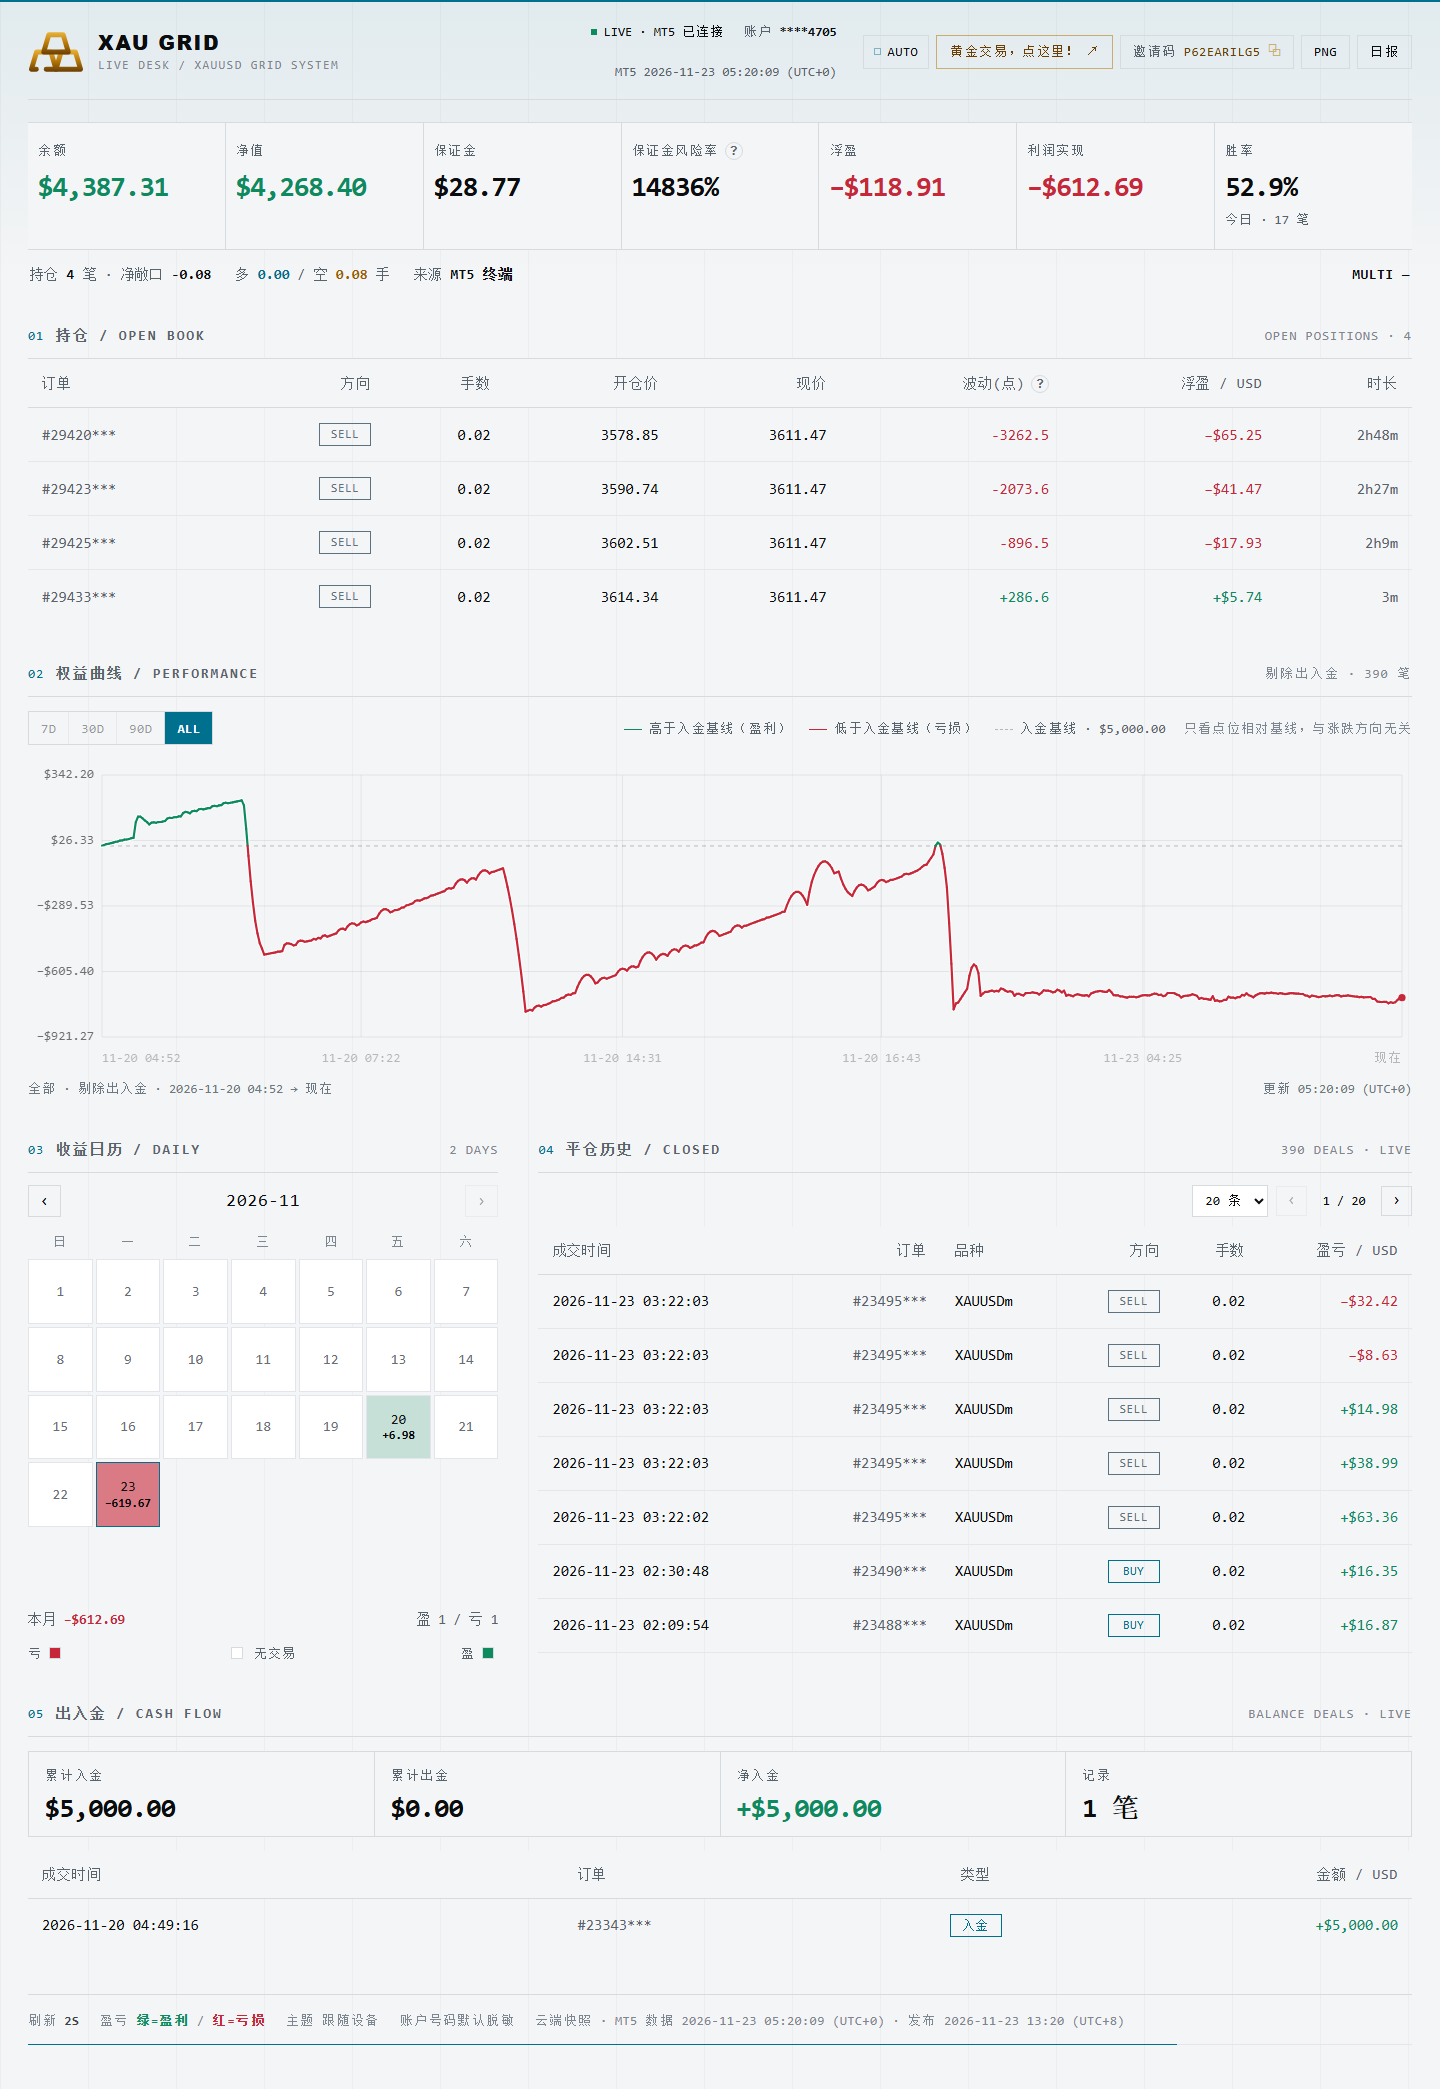
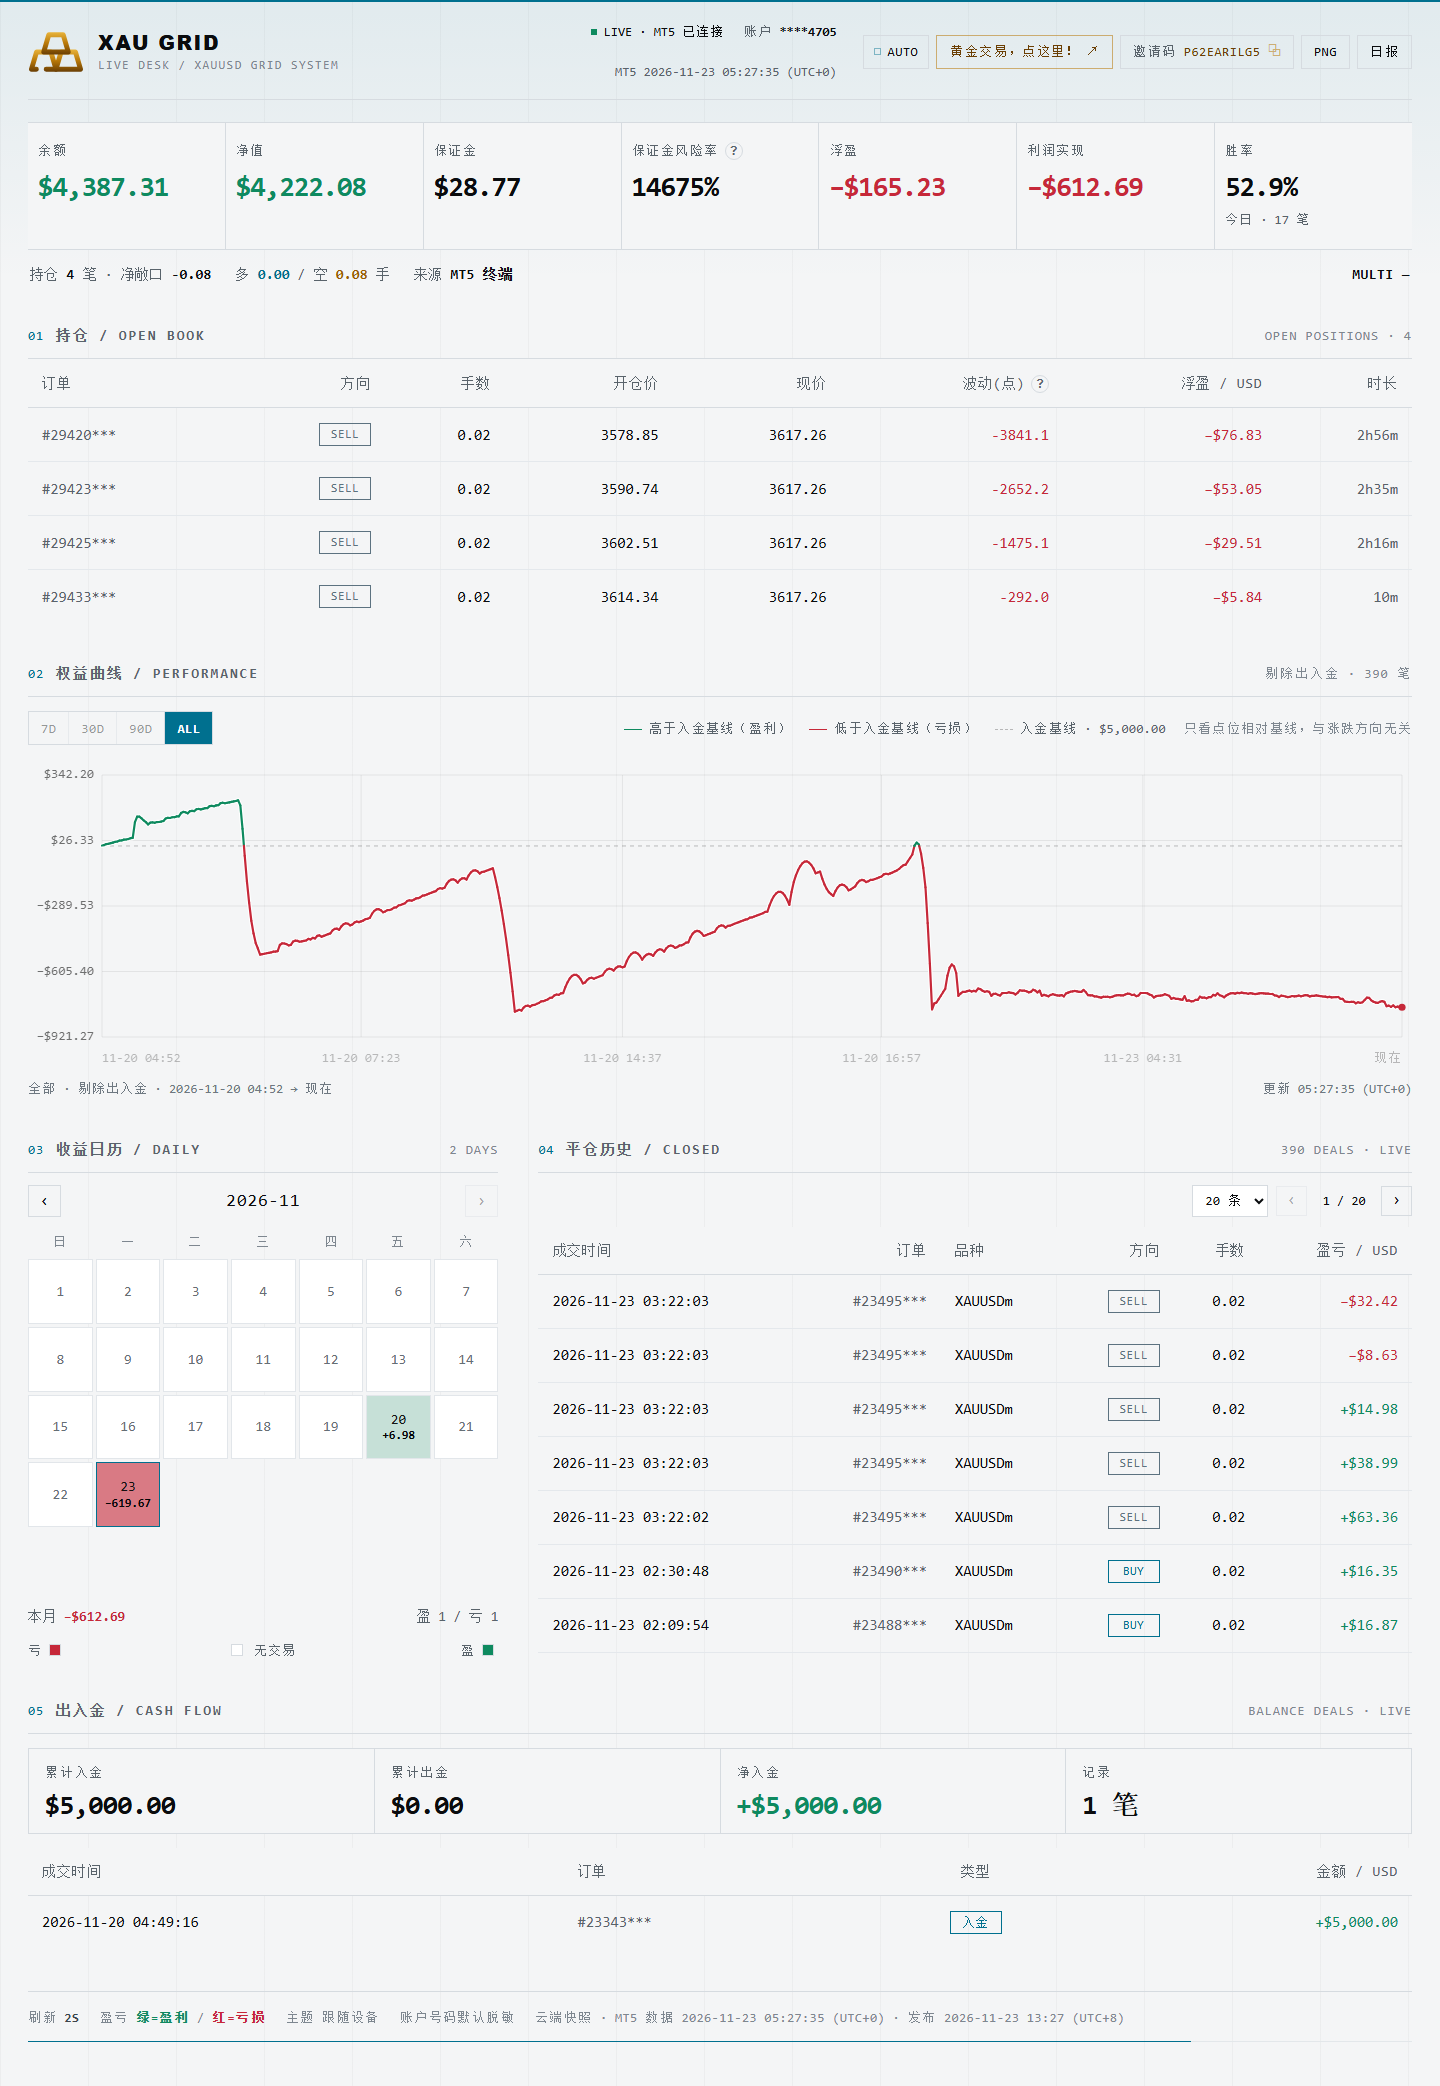
update snapshot 2026-11-23 13:27:41

diff --git a/index.html b/index.html
@@ -17,7 +17,7 @@
 })();
 </script>
 <link rel="stylesheet" href="assets/css/tokens.css?v=d27153c9">
-<link rel="stylesheet" href="assets/css/desk.css?v=c5eab529">
+<link rel="stylesheet" href="assets/css/desk.css?v=1af353bc">
 <link rel="stylesheet" href="assets/css/theme-control.css?v=ec0df777">
 <!-- 静态托管标记：publish.py 会把下一行替换为 window.__XAU_STATIC__ = true; -->
 <script>window.__XAU_STATIC__ = true;  // publish.py: 静态托管强制静态模式</script>
@@ -158,6 +158,8 @@
       </div>
       <div class="row-bar cal-nav"><button id="calPrev" aria-label="上个月">‹</button><span id="calMonth">—</span><button id="calNext" aria-label="下个月">›</button></div>
       <div class="cal-grid" id="calGrid"></div>
+      <!-- 月合计/盈亏天数放在网格外：网格是 7 列固定轨道，塞进去会被挤到两边裁掉 -->
+      <div class="cal-stats" id="calStats"></div>
       <div class="cal-legend">
         <span>亏 <i class="sw" style="background:var(--down)"></i></span>
         <span><i class="sw" style="background:var(--cal-bg)"></i> 无交易</span>
@@ -221,7 +223,7 @@
 <script src="assets/js/core.js?v=ac8131db"></script>
 <script src="assets/js/theme.js?v=ab43a0a9"></script>
 <script src="assets/js/chart.js?v=42c0796a"></script>
-<script src="assets/js/calendar.js?v=32f4e120"></script>
-<script src="assets/js/app.js?v=8e3caa1f"></script>
+<script src="assets/js/calendar.js?v=ac27d2bc"></script>
+<script src="assets/js/app.js?v=678a08de"></script>
 </body>
 </html>

diff --git a/assets/js/app.js b/assets/js/app.js
@@ -36,9 +36,11 @@ function render(d){
       + (d.published_at ? ` · 发布 ${d.published_at.slice(0, 16)} ${localTz}` : '')
       + (ageMin > 15 ? ` · 已延迟 ${ageMin} 分钟` : '');
   }else{
-    $('hint').textContent = live ? '当前显示真实终端数据'
+    // 本地也标出 MT5 数据时间，和云端页脚保持同一套口径
+    const dataTime = `${d.server_time || '—'} ${srvTz}`;
+    $('hint').textContent = live ? `MT5 数据 ${dataTime} · 当前显示真实终端数据`
       : (cached ? `MT5 未连接，显示 ${d.cache_saved_at} ${localTz} 的缓存快照（${d.cache_age_seconds}秒前）`
-                : 'MT5 与缓存均不可用，当前为演示数据');
+                : `演示数据 · MT5 数据 ${dataTime}`);
   }
 
   setText('floating', money(d.summary.floating), cls(d.summary.floating));

diff --git a/assets/js/calendar.js b/assets/js/calendar.js
@@ -70,9 +70,10 @@ function renderCalendar(){
           + ` title="${key}: ${v >= 0 ? '+' : ''}${v.toFixed(2)}"><span class="d">${day}</span>`
           + `${has ? `<span class="v">${label}</span>` : ''}</div>`;
   }
-  html += `<div class="cal-stats"><span>本月 <b style="color:${monthTotal >= 0 ? 'var(--up)' : 'var(--down)'}">${moneyCompact(monthTotal)}</b></span>`
-        + `<span>盈 ${wins} / 亏 ${losses}</span></div>`;
   $('calGrid').innerHTML = html;
+  $('calStats').innerHTML =
+    `<span>本月 <b style="color:${monthTotal >= 0 ? 'var(--up)' : 'var(--down)'}">${moneyCompact(monthTotal)}</b></span>`
+    + `<span>盈 ${wins} / 亏 ${losses}</span>`;
   $('calTag').textContent = `${Object.keys(dailyMap).filter(k => dailyMap[k] !== 0).length} DAYS`;
 }
 

diff --git a/assets/css/desk.css b/assets/css/desk.css
@@ -311,7 +311,8 @@ canvas{
   white-space:nowrap;font-variant-numeric:tabular-nums;
 }
 .cal-stats{
-  grid-column:1/-1;display:flex;justify-content:space-between;gap:8px;
+  display:flex;justify-content:space-between;align-items:center;gap:8px 16px;
+  flex-wrap:wrap;min-width:0;
   margin-top:11px;font-family:var(--mono);font-size:14px;color:var(--muted);
   font-variant-numeric:tabular-nums;white-space:nowrap;
 }

diff --git a/reports/2026-11-23.md b/reports/2026-11-23.md
@@ -2,7 +2,7 @@
 
 > **报告交易日**：2026-11-23（当日实时统计）  
 > **数据来源**：LIVE · MT5 终端  
-> **生成时间**：2026-11-23 05:22:30  
+> **生成时间**：2026-11-23 05:27:35  
 > **账户**：****4705 · Exness-M*** · USD
 
 ## 一、当日交易汇总
@@ -19,14 +19,14 @@
 | 项目 | 数值 |
 | --- | ---: |
 | 账户余额 | $4,387.31 |
-| 账户权益 | $4,248.84 |
+| 账户权益 | $4,221.44 |
 | 入金基线 | $5,000.00 |
-| 相对入金 | −$751.16 |
-| 当前浮盈 | −$138.47 |
+| 相对入金 | −$778.56 |
+| 当前浮盈 | −$165.87 |
 | 持仓笔数 | 4 |
 | 多 / 空手数 | 0.00 / 0.08 |
 | 净敞口 | -0.08 手 |
-| 保证金率 | 14768.3% |
+| 保证金率 | 14673.1% |
 
 > 注：持仓、浮盈与账户权益为报告生成时刻快照；当日盈亏、平仓明细与日历截至当前。
 
@@ -64,10 +64,10 @@
 
 | 订单 | 方向 | 手数 | 开仓价 | 现价 | 浮盈 |
 | --- | --- | ---: | ---: | ---: | ---: |
-| #29420*** | SELL | 0.02 | 3578.85 | 3613.91 | −$70.14 |
-| #29423*** | SELL | 0.02 | 3590.74 | 3613.91 | −$46.36 |
-| #29425*** | SELL | 0.02 | 3602.51 | 3613.91 | −$22.82 |
-| #29433*** | SELL | 0.02 | 3614.34 | 3613.91 | +$0.85 |
+| #29420*** | SELL | 0.02 | 3578.85 | 3617.34 | −$76.99 |
+| #29423*** | SELL | 0.02 | 3590.74 | 3617.34 | −$53.21 |
+| #29425*** | SELL | 0.02 | 3602.51 | 3617.34 | −$29.67 |
+| #29433*** | SELL | 0.02 | 3614.34 | 3617.34 | −$6.00 |
 
 ## 六、收益日历（当月有交易日）
 
@@ -79,8 +79,8 @@
 ## 七、分析结论
 
 1. 2026-11-23 当日已实现 −$619.67（亏损），平仓 17 笔，胜率 52.9%。
-2. 当前持仓浮盈 −$138.47，共 4 笔在持；多 0.00 / 空 0.08 手，敞口净空（净 -0.08 手）。
-3. 账户权益 $4,248.84，相对入金基线 $5,000.00 累计 −$751.16；保证金率 14768.3%。
+2. 当前持仓浮盈 −$165.87，共 4 笔在持；多 0.00 / 空 0.08 手，敞口净空（净 -0.08 手）。
+3. 账户权益 $4,221.44，相对入金基线 $5,000.00 累计 −$778.56；保证金率 14673.1%。
 4. 截至报告日近 4 个交易日累计已实现 −$612.69，历史平仓累计 390 笔。
 5. 当日盈亏分布：盈利 9 笔 / 亏损 8 笔，最大单笔盈利 +$63.36、最大单笔亏损 −$220.08。
 
